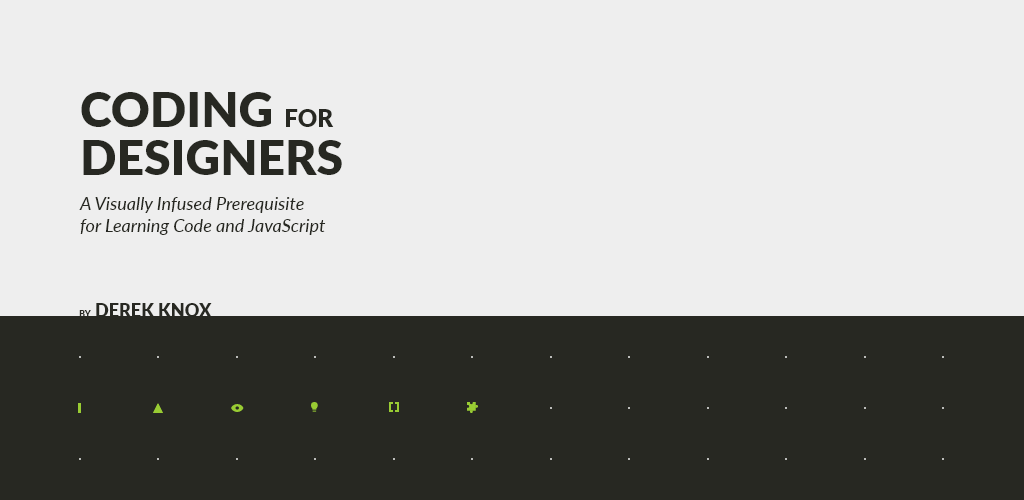
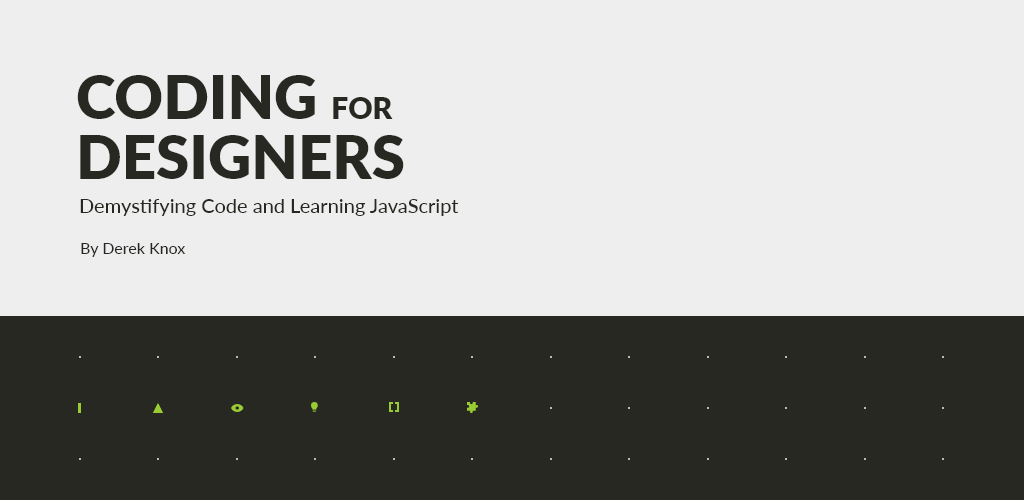
updated preface copy, updated cover and tagline

Changed region(s): [[0.0625, 0.15, 0.4062, 0.36], [0.0625, 0.39, 0.4688, 0.51], [0.0938, 0.6, 0.2188, 0.63]]

diff --git a/site/preface/index.html b/site/preface/index.html
@@ -3,9 +3,9 @@
   <head>
     <meta charset="UTF-8" />
     <title>Preface</title>
-    <meta name="description" content="A Visually Infused Prerequisite for Learning Code and JavaScript">
+    <meta name="description" content="Demystifying Code and Learning JavaScript">
     <meta property="og:title" content="Preface">
-    <meta property="og:description" content="A Visually Infused Prerequisite for Learning Code and JavaScript">
+    <meta property="og:description" content="Demystifying Code and Learning JavaScript">
     <meta property="og:site_name" content="Coding for Designers">
     <meta property="og:locale" content="en_ID">
     <meta property="og:type" content="website">
@@ -22,7 +22,7 @@
     <link rel="shortcut icon" href="../assets/img/favicon.png" type="image/x-icon">
     <link rel="icon" href="../assets/img/favicon.png" type="image/x-icon">
     <link href="//cdn-images.mailchimp.com/embedcode/horizontal-slim-10_7.css" rel="stylesheet" type="text/css">
-    <link rel="stylesheet" type="text/css" href="../assets/css/book-style.css?1.0.95">
+    <link rel="stylesheet" type="text/css" href="../assets/css/book-style.css?1.0.97">
     <link rel="stylesheet" href="../assets/css/prism.css">
   </head>
   <body>
@@ -196,8 +196,9 @@
           <p>Virtually all resources aimed at teaching people <em>how-to</em> code introduce the code itself too soon. In doing so, many fundamental and empowering concepts remain hidden and out of reach. These resources often lack explanations of <em>why</em> a coding concept exists as it does. Additionally, these resources rarely consider designers directly. <em>Coding for Designers</em> is the response to this unfortunate reality.</p>
 <div><a href="#the-audience" class="heading-anchor" onclick="return onAnchorJump(this);"><span class="heading-anchor-hash">#</span><h2 id="the-audience">The Audience</h2></a></div>
 <p>If you self-identify as an illustrator or graphic, visual, UI, UX, motion, or game designer then this is for you. Other non-coders will benefit too, but self-identifying designers are the focus. This book–the one I wish existed when I began coding–is also for an earlier time-slice of myself. He will not reap the benefits of its existence, but you will.</p>
-<p>Designers do not <em>need</em> to learn to code, but those who do will develop a valuable and powerful ability. In completing this book, you will gain the knowledge and a strong mental model for informing future code-related conversations and pursuits. Additionally–even if you never author or read code again–you&#39;ll be equipped to see digital creations through a more capable lens.</p>
-<p>This book is not for you if you want to jump straight into code though. We cover many ideas, topics, and concepts before diving into actual programming code. This intentionality helps frame why certain programming concepts exist as they do.</p>
+<p>Many claim that designers <em>need</em> to learn to code. I disagree. Yes, learning to read and author code is a powerful ability, but so too is conveying ideas and information visually. I want only to empower you further.</p>
+<p> In completing this book, you will gain knowledge and confidence for engaging in–not shying from–conversations about code. You will form a mental model to improve your ability to read and author of code. Additionally–even if you never read or author code again–you&#39;ll be equipped to see and design digital creations through a more capable lens.</p>
+<p>This book is not for you if you want to jump straight into code though. We cover many ideas, topics, and concepts before diving into actual programming code. This intentionality helps frame why certain programming concepts exist as they do. It also encourages a way of thinking that may be less familiar.</p>
 <div><a href="#the-goals" class="heading-anchor" onclick="return onAnchorJump(this);"><span class="heading-anchor-hash">#</span><h2 id="the-goals">The Goals</h2></a></div>
 <p>The primary goal of this book is to instill a mental model that helps designers learn coding concepts faster, more deeply, and more intuitively. The secondary goal is to lower the barrier of entry into JavaScript. Neither goal is efficiently achievable by taking the traditional approach.</p>
 <div><a href="#the-approach" class="heading-anchor" onclick="return onAnchorJump(this);"><span class="heading-anchor-hash">#</span><h2 id="the-approach">The Approach</h2></a></div>
@@ -226,7 +227,7 @@
     <div id='reveal-overlay'></div>
 
     <script src="../assets/js/three.min.js"></script>
-    <script src="../assets/js/book.js?1.0.95"></script>
+    <script src="../assets/js/book.js?1.0.97"></script>
     <script src="../assets/js/prism.js"></script>
     <script async defer src="https://buttons.github.io/buttons.js"></script>
 

diff --git a/site/home/index.html b/site/home/index.html
@@ -3,9 +3,9 @@
   <head>
     <meta charset="UTF-8" />
     <title>Coding for Designers</title>
-    <meta name="description" content="A Visually Infused Prerequisite for Learning Code and JavaScript">
+    <meta name="description" content="Demystifying Code and Learning JavaScript">
     <meta property="og:title" content="Coding for Designers">
-    <meta property="og:description" content="A Visually Infused Prerequisite for Learning Code and JavaScript">
+    <meta property="og:description" content="Demystifying Code and Learning JavaScript">
     <meta property="og:site_name" content="Coding for Designers">
     <meta property="og:locale" content="en_ID">
     <meta property="og:type" content="website">
@@ -21,7 +21,7 @@
     <link href="https://fonts.googleapis.com/css?family=Lato:400,900" rel="stylesheet">
     <link rel="shortcut icon" href="../assets/img/favicon.png" type="image/x-icon">
     <link rel="icon" href="../assets/img/favicon.png" type="image/x-icon">
-    <link rel="stylesheet" type="text/css" href="../assets/css/book-style.css?1.0.95">
+    <link rel="stylesheet" type="text/css" href="../assets/css/book-style.css?1.0.97">
   </head>
   <body>
     
@@ -31,10 +31,10 @@
 
         <!-- Title -->
         <h1>Coding <span>for</span><br>Designers</h1>
-        <h2>A Visually Infused Prerequisite<br>for Learning Code and JavaScript</h2>
+        <h2>Demystifying Code and Learning JavaScript</h2>
 
         <!-- Author -->
-        <h3><span>by</span> Derek Knox</h3>
+        <h3>By Derek Knox</h3>
 
       </div>
 
@@ -143,7 +143,7 @@
     <div id='reveal-overlay'></div>
 
     <script src="../assets/js/three.min.js"></script>
-    <script src="../assets/js/book.js?1.0.95"></script>
+    <script src="../assets/js/book.js?1.0.97"></script>
     <script async defer src="https://buttons.github.io/buttons.js"></script>
 
     <!-- Global site tag (gtag.js) - Google Analytics -->

diff --git a/site/interactive-code/index.html b/site/interactive-code/index.html
@@ -22,7 +22,7 @@
     <link rel="shortcut icon" href="../assets/img/favicon.png" type="image/x-icon">
     <link rel="icon" href="../assets/img/favicon.png" type="image/x-icon">
     <link href="//cdn-images.mailchimp.com/embedcode/horizontal-slim-10_7.css" rel="stylesheet" type="text/css">
-    <link rel="stylesheet" type="text/css" href="../assets/css/book-style.css?1.0.95">
+    <link rel="stylesheet" type="text/css" href="../assets/css/book-style.css?1.0.97">
     <link rel="stylesheet" href="../assets/css/prism.css">
   </head>
   <body>
@@ -829,7 +829,7 @@ imageToToggle<span class="token punctuation">.</span>style<span class="token pun
     <div id='reveal-overlay'></div>
 
     <script src="../assets/js/three.min.js"></script>
-    <script src="../assets/js/book.js?1.0.95"></script>
+    <script src="../assets/js/book.js?1.0.97"></script>
     <script src="../assets/js/prism.js"></script>
     <script async defer src="https://buttons.github.io/buttons.js"></script>
 

diff --git a/index.js b/index.js
@@ -35,7 +35,7 @@ Metalsmith(__dirname)
   .metadata({
     title: "Coding for Designers",
     description: "...",
-    version: '1.0.95'
+    version: '1.0.97'
   })
   .source('./book')
   .destination('./site')
@@ -113,13 +113,13 @@ Metalsmith(__dirname)
       layout: 'home.html',
       htmlTitle: 'Coding <span>for</span><br>Designers',
       title: 'Coding for Designers',
-      description: 'A Visually Infused Prerequisite for Learning Code and JavaScript',
+      description: 'Demystifying Code and Learning JavaScript',
     },
     'collections.chapter0': {
       layout: 'chapter.html',
       htmlTitle: htmlTitles.chapter0,
       title: 'Preface',
-      description: 'A Visually Infused Prerequisite for Learning Code and JavaScript',
+      description: 'Demystifying Code and Learning JavaScript',
       htmlNextChapter: htmlTitles.openCh1 + htmlTitles.chapter1 + htmlTitles.closeCh
     },
     'collections.chapter1': {

diff --git a/site/80-20-javascript/index.html b/site/80-20-javascript/index.html
@@ -22,7 +22,7 @@
     <link rel="shortcut icon" href="../assets/img/favicon.png" type="image/x-icon">
     <link rel="icon" href="../assets/img/favicon.png" type="image/x-icon">
     <link href="//cdn-images.mailchimp.com/embedcode/horizontal-slim-10_7.css" rel="stylesheet" type="text/css">
-    <link rel="stylesheet" type="text/css" href="../assets/css/book-style.css?1.0.95">
+    <link rel="stylesheet" type="text/css" href="../assets/css/book-style.css?1.0.97">
     <link rel="stylesheet" href="../assets/css/prism.css">
   </head>
   <body>
@@ -212,7 +212,7 @@
     <div id='reveal-overlay'></div>
 
     <script src="../assets/js/three.min.js"></script>
-    <script src="../assets/js/book.js?1.0.95"></script>
+    <script src="../assets/js/book.js?1.0.97"></script>
     <script src="../assets/js/prism.js"></script>
     <script async defer src="https://buttons.github.io/buttons.js"></script>
 

diff --git a/site/breaking-barriers/index.html b/site/breaking-barriers/index.html
@@ -22,7 +22,7 @@
     <link rel="shortcut icon" href="../assets/img/favicon.png" type="image/x-icon">
     <link rel="icon" href="../assets/img/favicon.png" type="image/x-icon">
     <link href="//cdn-images.mailchimp.com/embedcode/horizontal-slim-10_7.css" rel="stylesheet" type="text/css">
-    <link rel="stylesheet" type="text/css" href="../assets/css/book-style.css?1.0.95">
+    <link rel="stylesheet" type="text/css" href="../assets/css/book-style.css?1.0.97">
     <link rel="stylesheet" href="../assets/css/prism.css">
   </head>
   <body>
@@ -580,7 +580,7 @@
     <div id='reveal-overlay'></div>
 
     <script src="../assets/js/three.min.js"></script>
-    <script src="../assets/js/book.js?1.0.95"></script>
+    <script src="../assets/js/book.js?1.0.97"></script>
     <script src="../assets/js/prism.js"></script>
     <script async defer src="https://buttons.github.io/buttons.js"></script>
 

diff --git a/site/deconstructing-designs/index.html b/site/deconstructing-designs/index.html
@@ -22,7 +22,7 @@
     <link rel="shortcut icon" href="../assets/img/favicon.png" type="image/x-icon">
     <link rel="icon" href="../assets/img/favicon.png" type="image/x-icon">
     <link href="//cdn-images.mailchimp.com/embedcode/horizontal-slim-10_7.css" rel="stylesheet" type="text/css">
-    <link rel="stylesheet" type="text/css" href="../assets/css/book-style.css?1.0.95">
+    <link rel="stylesheet" type="text/css" href="../assets/css/book-style.css?1.0.97">
     <link rel="stylesheet" href="../assets/css/prism.css">
   </head>
   <body>
@@ -212,7 +212,7 @@
     <div id='reveal-overlay'></div>
 
     <script src="../assets/js/three.min.js"></script>
-    <script src="../assets/js/book.js?1.0.95"></script>
+    <script src="../assets/js/book.js?1.0.97"></script>
     <script src="../assets/js/prism.js"></script>
     <script async defer src="https://buttons.github.io/buttons.js"></script>
 

diff --git a/site/programming-and-visual-design/index.html b/site/programming-and-visual-design/index.html
@@ -22,7 +22,7 @@
     <link rel="shortcut icon" href="../assets/img/favicon.png" type="image/x-icon">
     <link rel="icon" href="../assets/img/favicon.png" type="image/x-icon">
     <link href="//cdn-images.mailchimp.com/embedcode/horizontal-slim-10_7.css" rel="stylesheet" type="text/css">
-    <link rel="stylesheet" type="text/css" href="../assets/css/book-style.css?1.0.95">
+    <link rel="stylesheet" type="text/css" href="../assets/css/book-style.css?1.0.97">
     <link rel="stylesheet" href="../assets/css/prism.css">
   </head>
   <body>
@@ -383,7 +383,7 @@
     <div id='reveal-overlay'></div>
 
     <script src="../assets/js/three.min.js"></script>
-    <script src="../assets/js/book.js?1.0.95"></script>
+    <script src="../assets/js/book.js?1.0.97"></script>
     <script src="../assets/js/prism.js"></script>
     <script async defer src="https://buttons.github.io/buttons.js"></script>
 

diff --git a/site/structure-style-and-behavior/index.html b/site/structure-style-and-behavior/index.html
@@ -22,7 +22,7 @@
     <link rel="shortcut icon" href="../assets/img/favicon.png" type="image/x-icon">
     <link rel="icon" href="../assets/img/favicon.png" type="image/x-icon">
     <link href="//cdn-images.mailchimp.com/embedcode/horizontal-slim-10_7.css" rel="stylesheet" type="text/css">
-    <link rel="stylesheet" type="text/css" href="../assets/css/book-style.css?1.0.95">
+    <link rel="stylesheet" type="text/css" href="../assets/css/book-style.css?1.0.97">
     <link rel="stylesheet" href="../assets/css/prism.css">
   </head>
   <body>
@@ -284,7 +284,7 @@
     <div id='reveal-overlay'></div>
 
     <script src="../assets/js/three.min.js"></script>
-    <script src="../assets/js/book.js?1.0.95"></script>
+    <script src="../assets/js/book.js?1.0.97"></script>
     <script src="../assets/js/prism.js"></script>
     <script async defer src="https://buttons.github.io/buttons.js"></script>
 

diff --git a/book/assets/css/book-style.css b/book/assets/css/book-style.css
@@ -365,21 +365,19 @@ footer a:hover {
 .intro-top h1 {
 	font-size: 3.555em;
 	padding-top: 53px;
-	margin: 0 0 20px;
+	margin: 0 0 10px;
 }
 .intro-top h2 {
 	font-size: 1.25em;
-	font-style: italic;
 	font-weight: 400;
 	line-height: 1.29em;
 	margin-top: 0;
+	margin: 0 0 20px;
 }
 .intro-top h3 {
-	font-size: 1.25em;
-	text-transform: uppercase;
+	font-size: 1.15em;
+	font-weight: 400;
 	margin: 0;
-    position: absolute;
-    bottom: -4px;
 }
 .intro-top h3 span {
     font-size: 50%;

diff --git a/site/assets/css/book-style.css b/site/assets/css/book-style.css
@@ -365,21 +365,19 @@ footer a:hover {
 .intro-top h1 {
 	font-size: 3.555em;
 	padding-top: 53px;
-	margin: 0 0 20px;
+	margin: 0 0 10px;
 }
 .intro-top h2 {
 	font-size: 1.25em;
-	font-style: italic;
 	font-weight: 400;
 	line-height: 1.29em;
 	margin-top: 0;
+	margin: 0 0 20px;
 }
 .intro-top h3 {
-	font-size: 1.25em;
-	text-transform: uppercase;
+	font-size: 1.15em;
+	font-weight: 400;
 	margin: 0;
-    position: absolute;
-    bottom: -4px;
 }
 .intro-top h3 span {
     font-size: 50%;

diff --git a/layouts/home.html b/layouts/home.html
@@ -23,10 +23,10 @@
 
         <!-- Title -->
         <h1>Coding <span>for</span><br>Designers</h1>
-        <h2>A Visually Infused Prerequisite<br>for Learning Code and JavaScript</h2>
+        <h2>Demystifying Code and Learning JavaScript</h2>
 
         <!-- Author -->
-        <h3><span>by</span> Derek Knox</h3>
+        <h3>By Derek Knox</h3>
 
       </div>
 
